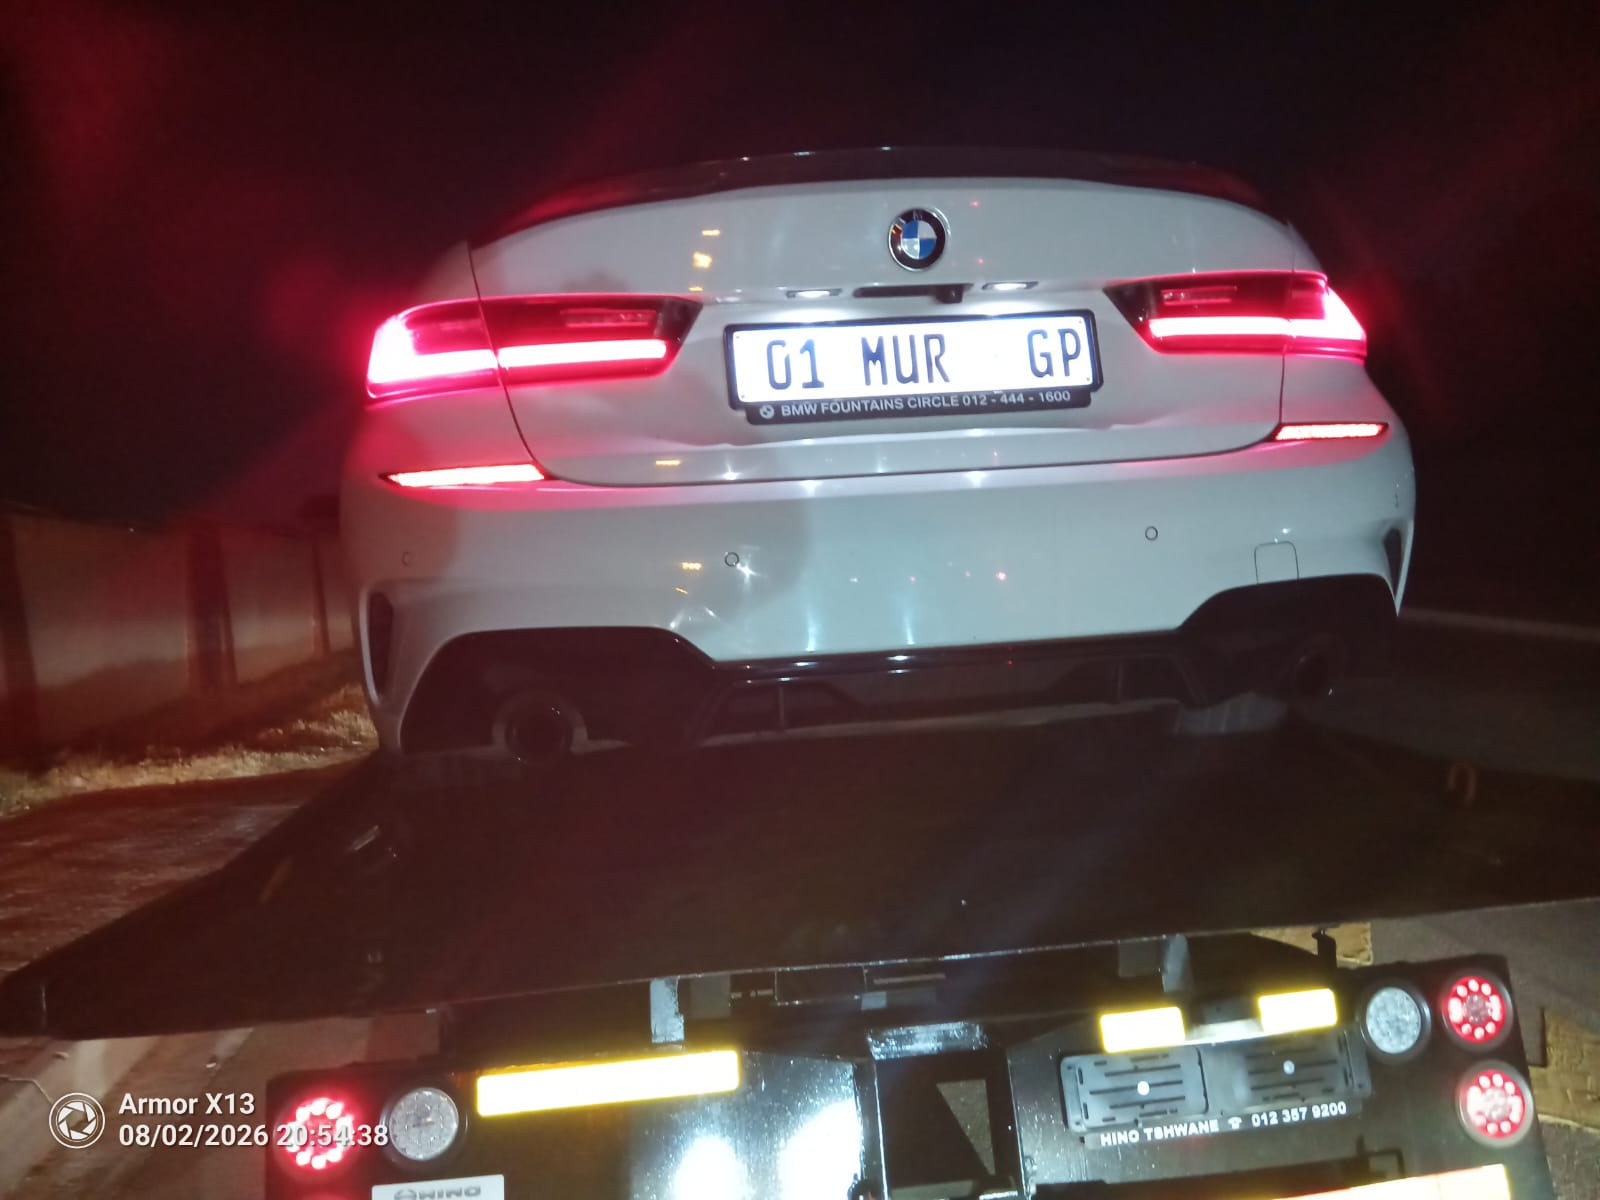
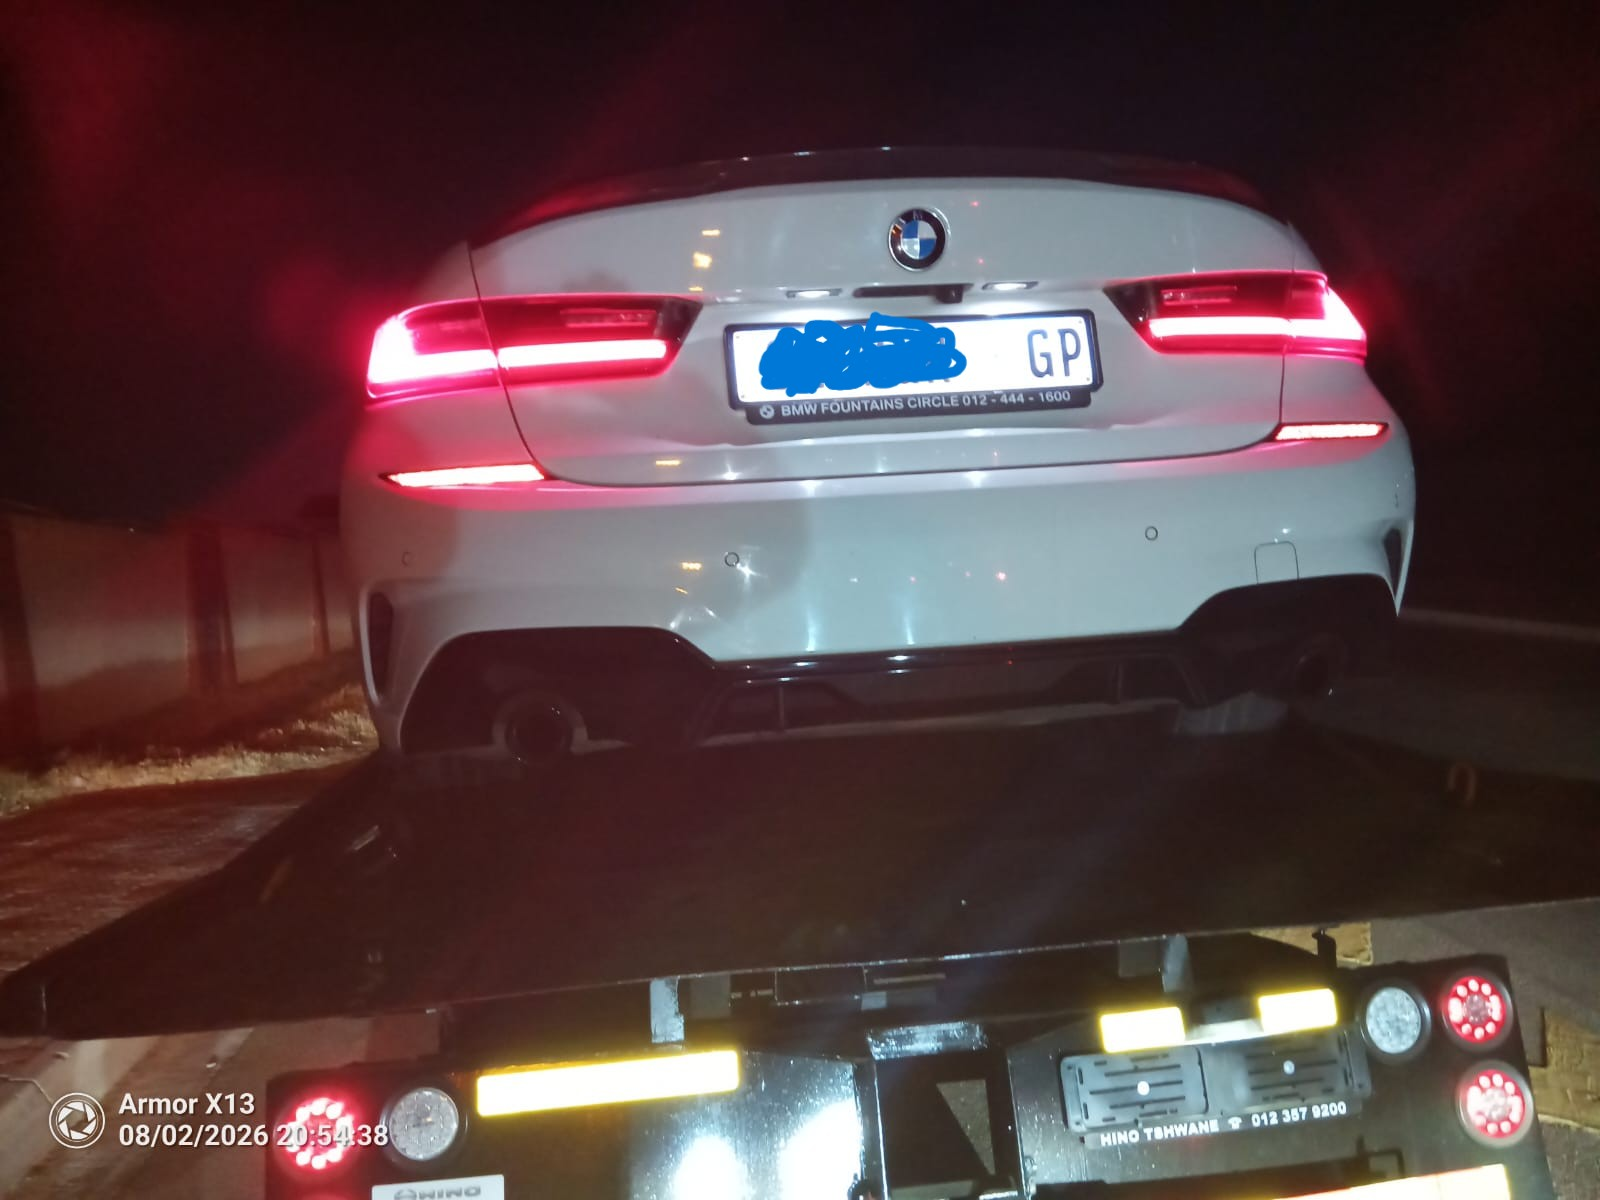
Update website images and styling

Changed region(s): [[0.4688, 0.2467, 0.625, 0.3392]]

diff --git a/index.html b/index.html
@@ -17,11 +17,10 @@
     <meta name="geo.position" content="-26.2041;28.0473">
     <meta name="ICBM" content="-26.2041, 28.0473">
 
-    <!-- Open Graph (Facebook & WhatsApp Sharing) -->
+    <!-- Open Graph -->
     <meta property="og:title" content="Bra Ike Towing | 24/7 Towing & Roadside Assist in Gauteng">
     <meta property="og:description" content="Fast, dependable towing across Gauteng since 1999. Affiliated with all insurances. Call us 24/7!">
     <meta property="og:type" content="website">
-    <!-- Add your actual domain below once hosted -->
     <meta property="og:url" content="https://www.braiketowing.co.za/"> 
     <meta property="og:image" content="https://www.braiketowing.co.za/images/tow1.jpeg">
 
@@ -32,7 +31,7 @@
     <link rel="preconnect" href="https://fonts.gstatic.com" crossorigin>
     <link href="https://fonts.googleapis.com/css2?family=Roboto:wght@400;500;700;900&family=Roboto+Slab:wght@400;600&display=swap" rel="stylesheet">
 
-    <!-- JSON-LD Schema for Local Business (Gauteng) -->
+    <!-- JSON-LD Local Business Schema -->
     <script type="application/ld+json">
     {
       "@context": "https://schema.org",
@@ -58,6 +57,48 @@
       }
     }
     </script>
+
+    <!-- JSON-LD FAQ Schema (Helps Google show your FAQs in search results) -->
+    <script type="application/ld+json">
+    {
+      "@context": "https://schema.org",
+      "@type": "FAQPage",
+      "mainEntity": [
+        {
+          "@type": "Question",
+          "name": "Do you tow nationwide?",
+          "acceptedAnswer": {
+            "@type": "Answer",
+            "text": "Yes, we tow nationwide."
+          }
+        },
+        {
+          "@type": "Question",
+          "name": "Do you only operate in Gauteng?",
+          "acceptedAnswer": {
+            "@type": "Answer",
+            "text": "No, it's not Gauteng only. We tow you to any province in South Africa."
+          }
+        },
+        {
+          "@type": "Question",
+          "name": "Do you provide professional towing?",
+          "acceptedAnswer": {
+            "@type": "Answer",
+            "text": "Yes, we provide professional towing."
+          }
+        },
+        {
+          "@type": "Question",
+          "name": "Will your drivers hit on me?",
+          "acceptedAnswer": {
+            "@type": "Answer",
+            "text": "We won't hit on you while we do our job ; )"
+          }
+        }
+      ]
+    }
+    </script>
 </head>
 <body>
 
@@ -69,12 +110,17 @@
         </div>
     </div>
 
-    <!-- Header / Navigation (FIXED) -->
+    <!-- Header / Navigation -->
     <header>
         <div class="container header-inner">
+            
+            <!-- LOGO & TEXT SECTION -->
             <div class="logo">
-                <h1>BRA IKE<br><span>TOWING SERVICES</span></h1>
-                <p class="est">Established 1999</p>
+                <img src="./images/logo.png" alt="Bra Ike Towing Logo" class="logo-img">
+                <div class="logo-text">
+                    <h1>BRA IKE<br><span>TOWING SERVICES</span></h1>
+                    <p class="est">Established 1999</p>
+                </div>
             </div>
             
             <!-- HAMBURGER BUTTON FOR MOBILE -->
@@ -85,10 +131,11 @@
                 <a href="#gallery">Gallery</a>
                 <a href="#video">Video</a>
                 <a href="#why-us">Why Choose Us</a>
+                <a href="#faq">FAQ</a>
                 <a href="#contact">Contact</a>
             </nav>
             
-            <a href="https://wa.me/27736382838?text=I%20saw%20your%20services%20on%20the%20website..can%20I%20get%20more%20details%20about%20this...." class="btn btn-yellow header-btn">Get Help Now</a>
+            <a href="tel:0793633447" class="btn btn-yellow header-btn">Get Help Now</a>
         </div>
     </header>
 
@@ -99,7 +146,7 @@
                 <h2>Fast, Dependable Towing Across South Africa</h2>
                 <p>Affiliated with All Insurances & Non-Insured Clients Welcome. Available 24/7.</p>
                 <div class="hero-actions">
-                    <a href="tel:0793633447" class="btn btn-yellow">📞 Call 079 363 3447</a>
+                    <a href="tel:0793633447" class="btn btn-yellow">📞 Call & WhatsApp 079 363 3447</a>
                     <a href="https://wa.me/27736382838?text=I%20saw%20your%20services%20on%20the%20website..can%20I%20get%20more%20details%20about%20this...." class="btn btn-outline" target="_blank">💬 WhatsApp Us</a>
                 </div>
             </div>
@@ -119,7 +166,7 @@
                 <div class="feature-card"><div class="feature-icon">🗣</div><h3>Friendly Communication</h3></div>
                 <div class="feature-card"><div class="feature-icon">💰</div><h3>Transparent Pricing</h3></div>
                 <div class="feature-card"><div class="feature-icon">🔧</div><h3>Well-Maintained Equipment</h3></div>
-                <div class="feature-card"><div class="feature-icon">🛠</div><h3>Roadside Repair Skills</h3></div>
+                <div class="feature-card"><div class="feature-icon">🛠</div><h3>We Tow Un-insured Cars Too</h3></div>
                 <div class="feature-card"><div class="feature-icon">🤝</div><h3>Customer Focus</h3></div>
             </div>
         </div>
@@ -181,36 +228,63 @@
                     </div>   
                     <div class="carousel-slide">
                         <img src="./images/tow7.jpeg" alt="Long Distance Towing Truck">
-                    </div>    
-                    <div class="carousel-slide">
-                        <img src="./images/tow8.jpeg" alt="Long Distance Towing Truck">
-                    </div>                       
-                    <div class="carousel-slide">
-                        <img src="./images/jump.jpeg" alt="Long Distance Towing Truck">
-                    </div>    
-                    <div class="carousel-slide">
-                        <img src="./images/tow9.jpeg" alt="Long Distance Towing Truck">
-                    </div>     
-                    <div class="carousel-slide">
-                        <img src="./images/tow10.jpeg" alt="Long Distance Towing Truck">
-                    </div>                       
+                    </div>                                       
                 </div>
             </div>
         </div>
     </section>
 
-    <!-- Video Section (FIXED FOR LOCAL MP4) -->
+    <!-- Video Section -->
     <section id="video" class="video-section">
         <div class="container">
             <h2 class="section-title">Watch Us In Action</h2>
             <p class="section-subtitle">Professional, fast, and safe towing services you can trust</p>
             
             <div class="video-wrapper">
-                <!-- Changed from iframe to video tag -->
                 <video controls playsinline>
                     <source src="./images/video.mp4" type="video/mp4">
                     Your browser does not support the video tag.
                 </video>
+            </div>
+        </div>
+    </section>
+
+    <!-- NEW FAQ SECTION -->
+    <section id="faq" class="faq-section">
+        <div class="container">
+            <h2 class="section-title">Frequently Asked Questions</h2>
+            <p class="section-subtitle">Got questions? We've got answers.</p>
+            
+            <div class="faq-container">
+                
+                <details class="faq-item">
+                    <summary>Do you tow nationwide?</summary>
+                    <div class="faq-answer">
+                        <p>Yes, we tow nationwide.</p>
+                    </div>
+                </details>
+
+                <details class="faq-item">
+                    <summary>Do you only operate in Gauteng?</summary>
+                    <div class="faq-answer">
+                        <p>No, it's not Gauteng only. We tow you to any province in South Africa.</p>
+                    </div>
+                </details>
+
+                <details class="faq-item">
+                    <summary>How is it like using braiketowing?</summary>
+                    <div class="faq-answer">
+                        <p>Time conscious, we provide professional towing.</p>
+                    </div>
+                </details>
+
+                <details class="faq-item">
+                    <summary>How professional are you?</summary>
+                    <div class="faq-answer">
+                        <p>We won't hit on you while we do our job ; )</p>
+                    </div>
+                </details>
+
             </div>
         </div>
     </section>
@@ -236,8 +310,8 @@
             </div>
             <div class="footer-col">
                 <h4>Contact Us</h4>
-                <p>📞 Call: <a href="tel:0793633447">079 363 3447</a></p>
-                <p>💬 WhatsApp: <a href="https://wa.me/27736382838?text=I%20saw%20your%20services%20on%20the%20website..can%20I%20get%20more%20details%20about%20this...." target="_blank">073 638 2838</a></p>
+                <p>📞 Call & WhatsApp <a href="tel:0793633447">079 363 3447</a></p>
+                <p>💬 WhatsApp Only: <a href="https://wa.me/27736382838?text=I%20saw%20your%20services%20on%20the%20website..can%20I%20get%20more%20details%20about%20this...." target="_blank">073 638 2838</a></p>
                 <p>Affiliated with All Insurances</p>
             </div>
             <div class="footer-col">
@@ -245,6 +319,7 @@
                 <a href="#services">Services</a>
                 <a href="#gallery">Gallery</a>
                 <a href="#video">Video</a>
+                <a href="#faq">FAQ</a>
                 <a href="#contact">Contact</a>
             </div>
         </div>

diff --git a/css/style.css b/css/style.css
@@ -25,7 +25,7 @@ body {
     color: var(--color-text);
     font-family: var(--font-heading);
     line-height: 1.6;
-    overflow-x: hidden; /* Prevents scrolling sideways */
+    overflow-x: hidden;
 }
 
 .container {
@@ -84,14 +84,28 @@ header {
     flex-wrap: wrap;
 }
 
-.logo h1 {
+/* LOGO + IMAGE ALIGNMENT */
+.logo {
+    display: flex;
+    align-items: center;
+    gap: 15px; 
+}
+
+.logo-img {
+    height: 65px; 
+    width: auto;
+    object-fit: contain;
+    border-radius: 40%;
+}
+
+.logo-text h1 {
     font-size: clamp(1.4rem, 3vw, 1.8rem);
     color: #fff;
     line-height: 1.1;
     font-weight: 900;
 }
 
-.logo h1 span {
+.logo-text h1 span {
     color: var(--color-primary);
     font-size: clamp(0.75rem, 1.5vw, 1rem);
     letter-spacing: 1px;
@@ -165,8 +179,7 @@ header {
 
 /* --- HERO SECTION --- */
 .hero {
-    /* Darkened overlay so your white text is readable regardless of the background image */
-    background: linear-gradient(rgba(0, 0, 0, 0.8), rgba(0, 0, 0, 0.8)), url('../images/header.jpeg') no-repeat center center/cover;
+    background: linear-gradient(rgba(0, 0, 0, 0.8), rgba(0, 0, 0, 0.8)), url('../header.jpeg') no-repeat center center/cover;
     padding: clamp(80px, 15vw, 150px) 0;
     text-align: center;
     position: relative;
@@ -225,7 +238,6 @@ header {
 
 .features-grid {
     display: grid;
-    /* This ensures it never shrinks below 250px, making it perfectly responsive */
     grid-template-columns: repeat(auto-fit, minmax(min(100%, 250px), 1fr));
     gap: 20px;
 }
@@ -330,7 +342,7 @@ header {
 
 .carousel-slide img {
     width: 100%;
-    aspect-ratio: 16 / 9; /* Keeps perfect shape on all screens */
+    aspect-ratio: 16 / 9;
     object-fit: cover;
     display: block;
 }
@@ -366,8 +378,69 @@ header {
     left: 0;
     width: 100%;
     height: 100%;
-    object-fit: cover; /* Video fills the entire box perfectly */
+    object-fit: cover;
     border: none;
+}
+
+/* --- FAQ SECTION --- */
+.faq-section {
+    padding: clamp(50px, 8vw, 80px) 0;
+    background-color: #1a1a1a;
+}
+
+.faq-container {
+    max-width: 800px;
+    margin: 0 auto;
+}
+
+.faq-item {
+    background-color: var(--color-light-dark);
+    margin-bottom: 15px;
+    border-radius: 8px;
+    border: 1px solid #444;
+    overflow: hidden;
+    transition: border-color 0.3s;
+}
+
+.faq-item:hover {
+    border-color: var(--color-primary);
+}
+
+.faq-item summary {
+    padding: 20px;
+    font-size: 1.1rem;
+    font-weight: 700;
+    cursor: pointer;
+    list-style: none; /* Hides default arrow */
+    position: relative;
+    color: #fff;
+}
+
+/* Custom Plus/Minus icon for FAQ */
+.faq-item summary::after {
+    content: '+';
+    position: absolute;
+    right: 20px;
+    font-size: 1.5rem;
+    color: var(--color-primary);
+    transition: transform 0.3s;
+}
+
+.faq-item[open] summary::after {
+    content: '−'; /* Changes to minus when open */
+}
+
+.faq-item summary::-webkit-details-marker {
+    display: none; /* Hides default arrow in Safari/Chrome */
+}
+
+.faq-answer {
+    padding: 0 20px 20px 20px;
+    color: var(--color-text-muted);
+    font-family: var(--font-body);
+    font-size: 0.95rem;
+    border-top: 1px solid #333;
+    padding-top: 15px;
 }
 
 /* --- CTA SECTION --- */
@@ -486,7 +559,6 @@ footer {
         gap: 5px;
     }
 
-    /* Setup Mobile Menu */
     .menu-toggle {
         display: block; 
     }
@@ -509,10 +581,9 @@ footer {
     }
 
     .header-btn {
-        display: none; /* Hide desktop button on mobile to save space */
+        display: none;
     }
 
-    /* Make Buttons Stack Full-Width */
     .hero-actions, .cta-actions {
         flex-direction: column;
         width: 100%;
@@ -525,11 +596,17 @@ footer {
         display: block;
     }
     
-    /* Adjust WhatsApp icon size slightly for phones */
     .whatsapp-float {
         width: 55px;
         height: 55px;
         bottom: 15px;
         right: 15px;
+    }
+
+    .logo-img {
+        height: 50px;
+    }
+    .logo {
+        gap: 10px;
     }
 }
